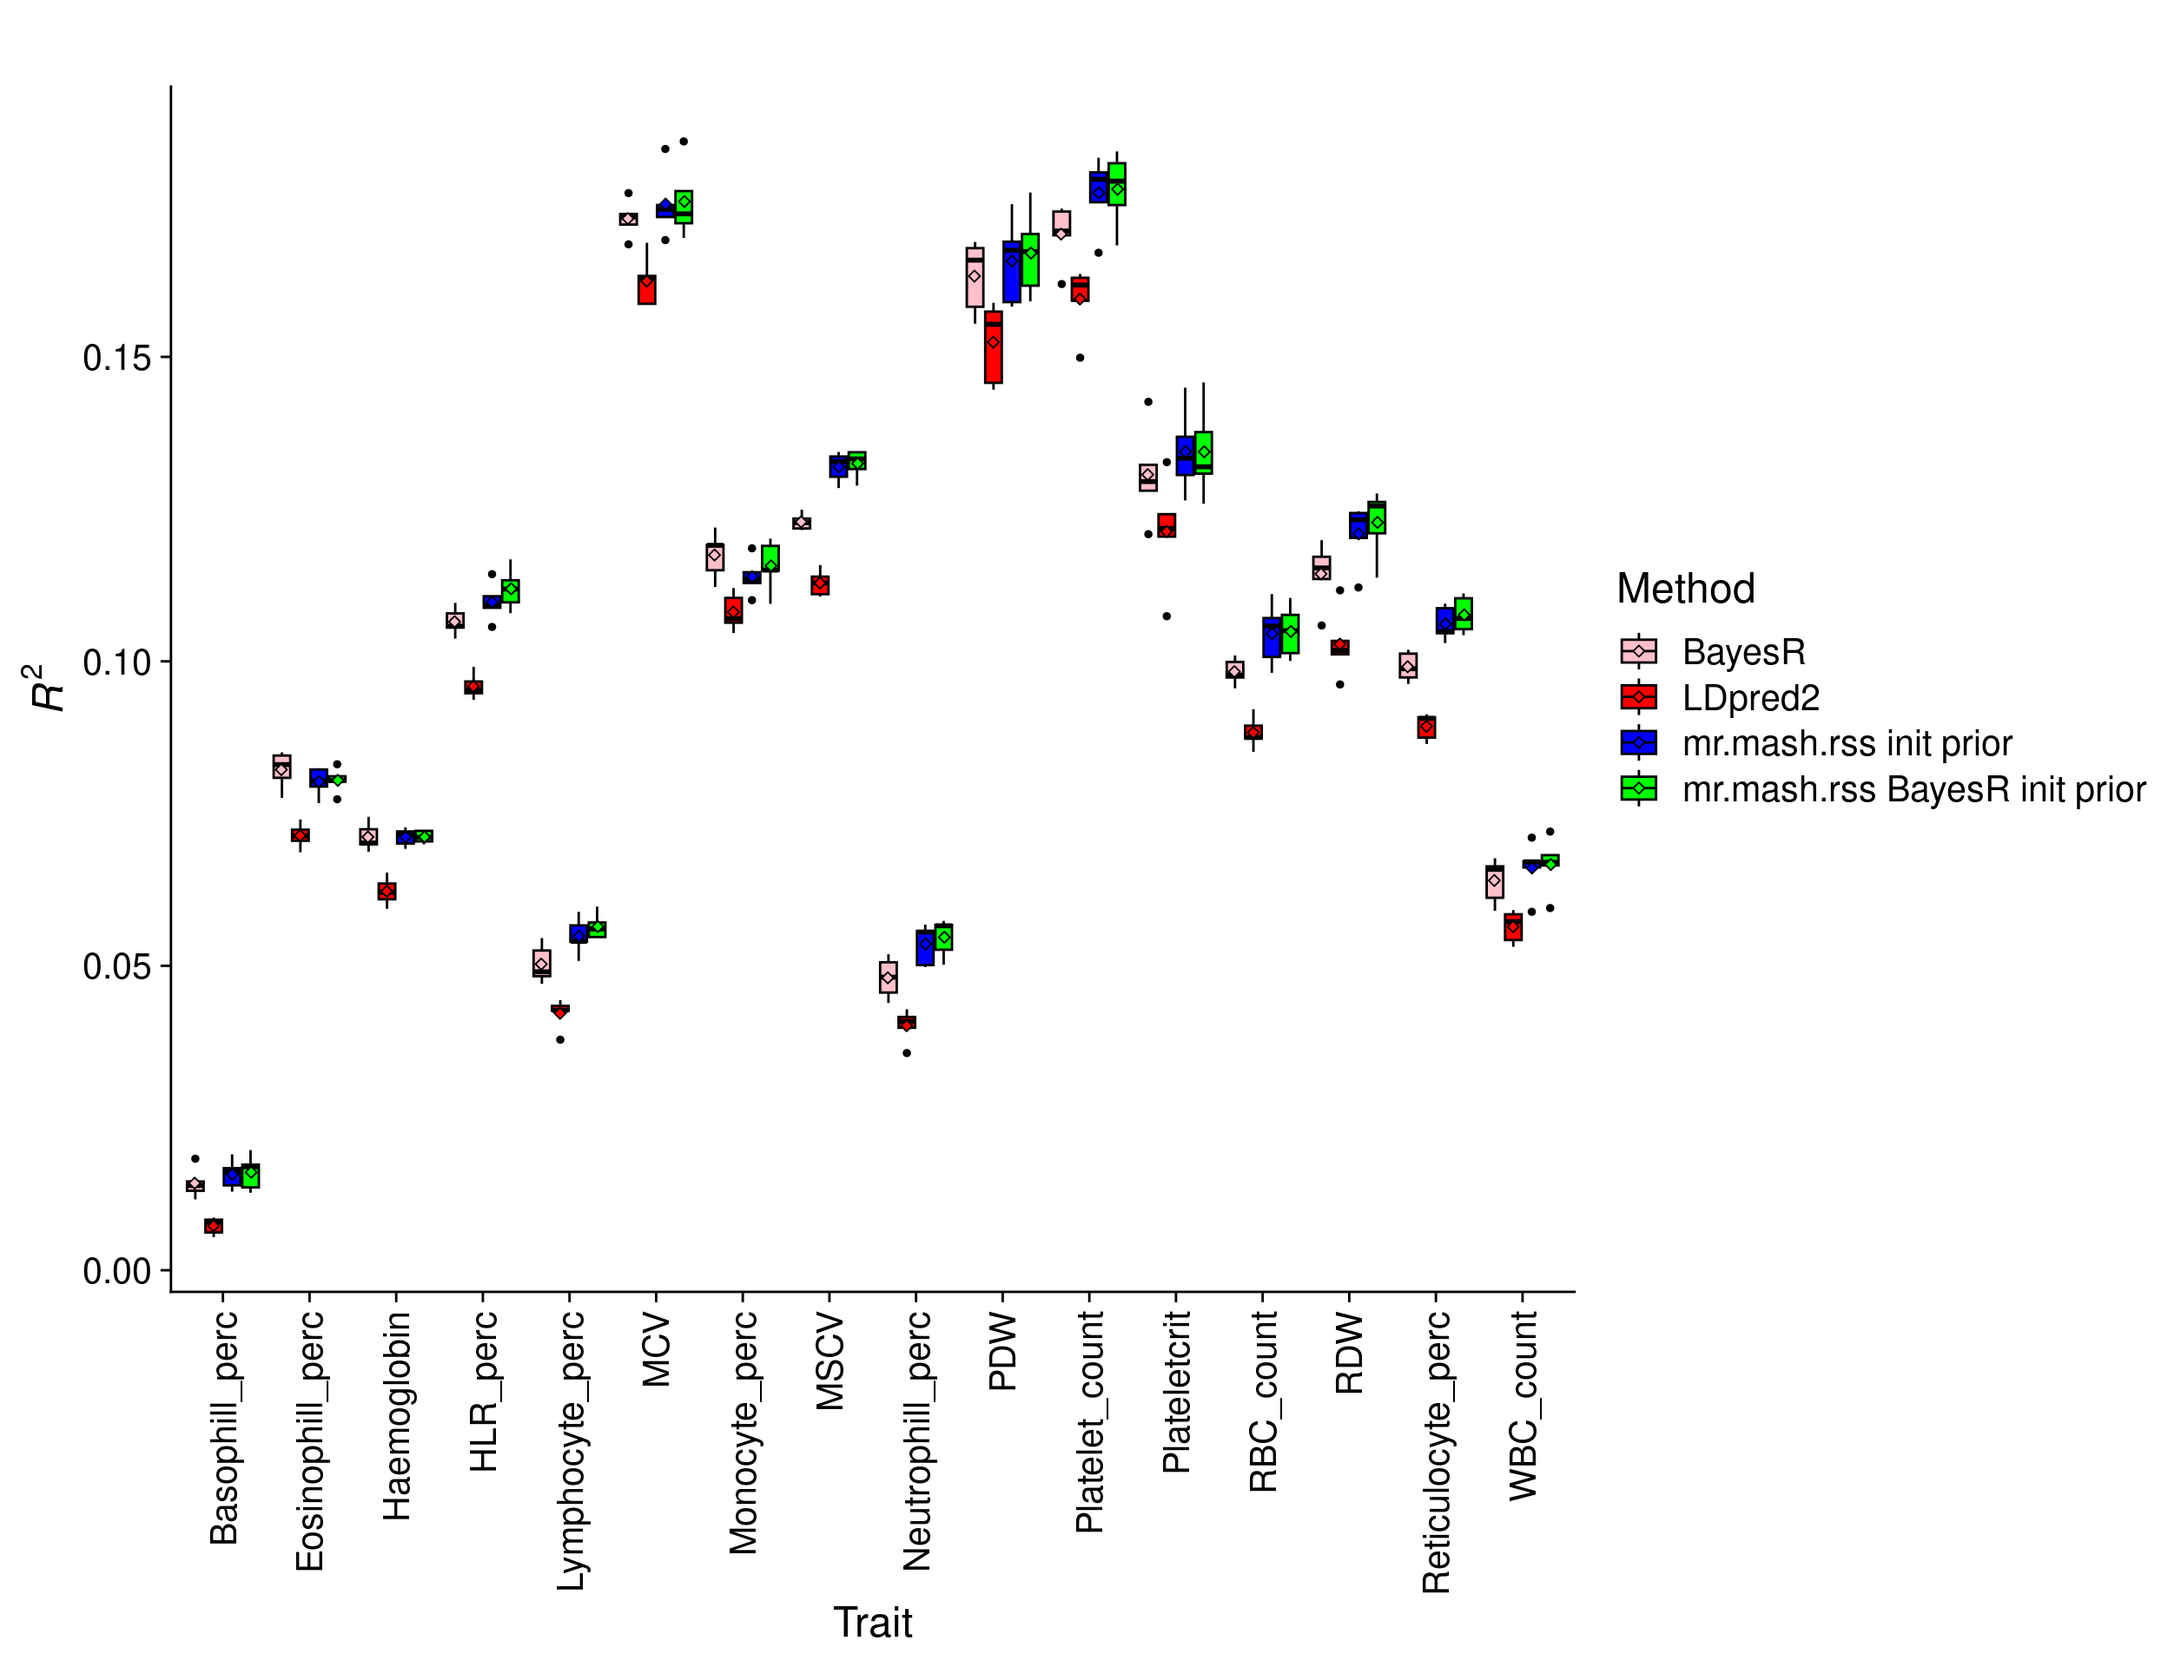
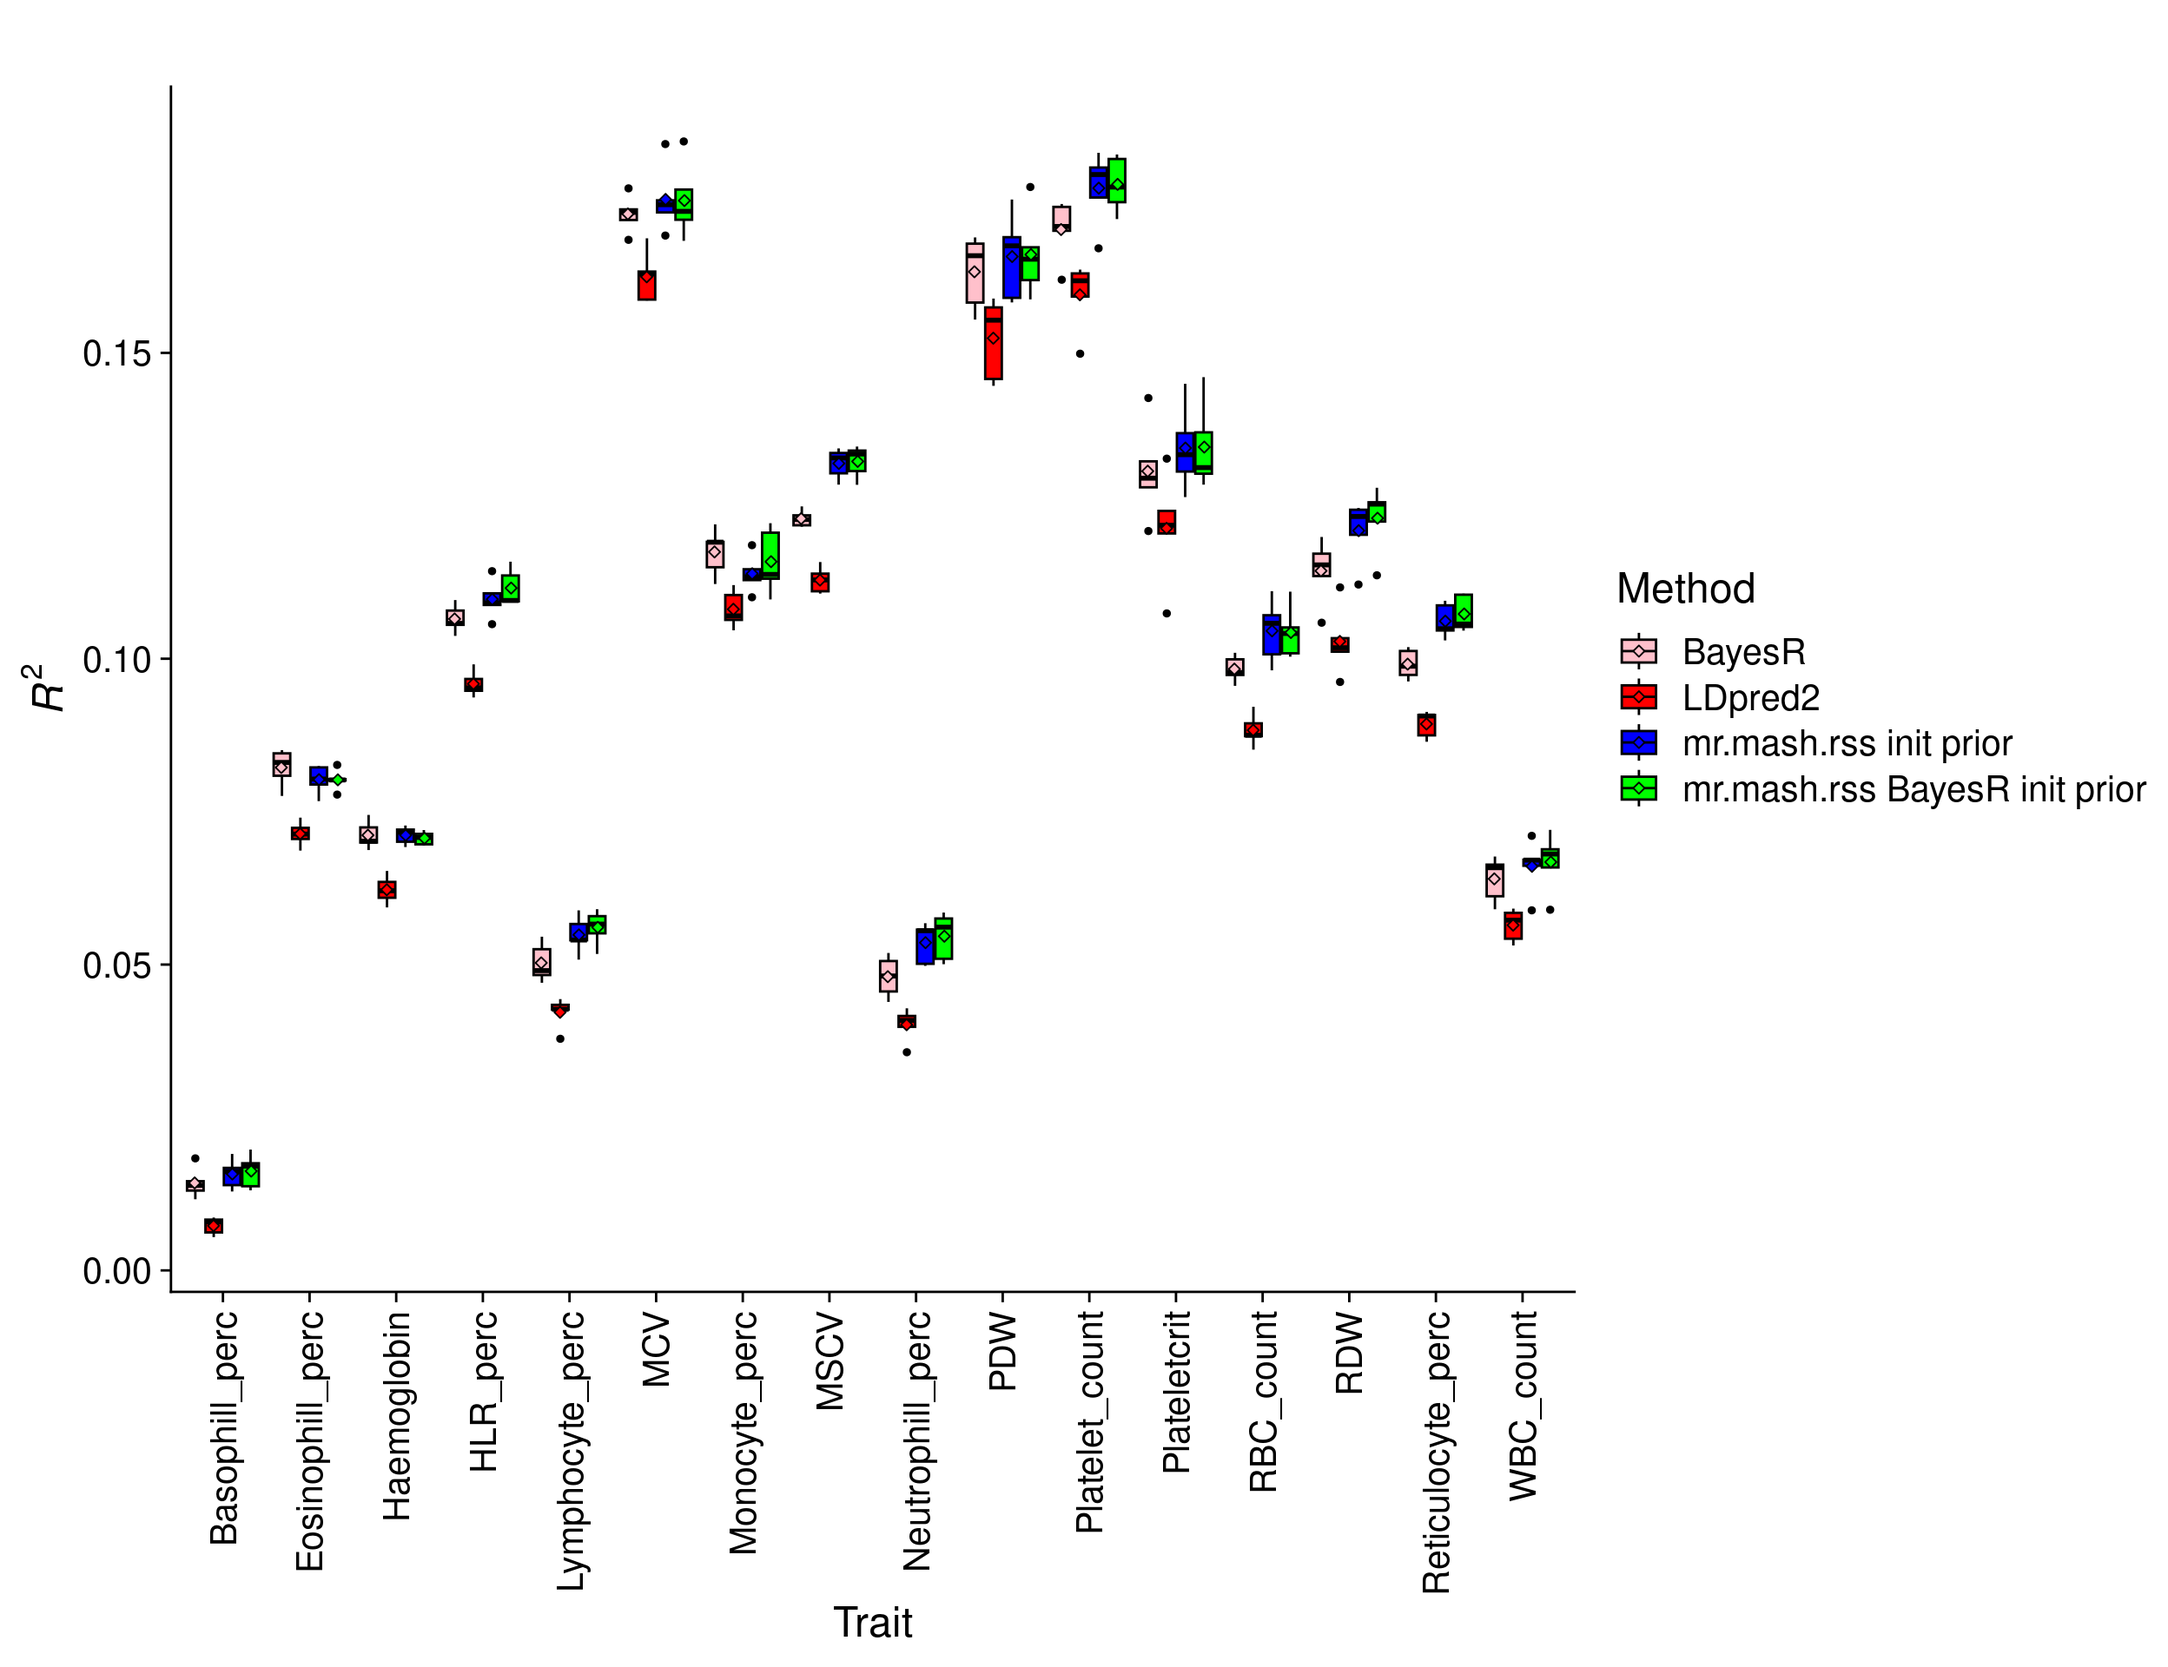
Build site.

diff --git a/docs/ukb_bc_results.html b/docs/ukb_bc_results.html
@@ -11,7 +11,7 @@
 
 <meta name="author" content="Fabio Morgante &amp; Deborah Kunkel" />
 
-<meta name="date" content="2024-03-01" />
+<meta name="date" content="2024-05-02" />
 
 <title>Analysis of blood cell traits in UK Biobank</title>
 
@@ -374,7 +374,7 @@ div.tocify {
 <h1 class="title toc-ignore">Analysis of blood cell traits in UK
 Biobank</h1>
 <h4 class="author">Fabio Morgante &amp; Deborah Kunkel</h4>
-<h4 class="date">March 01, 2024</h4>
+<h4 class="date">May 02, 2024</h4>
 
 </div>
 
@@ -403,7 +403,7 @@ class="glyphicon glyphicon-ok text-success" aria-hidden="true"></span>
 <div class="tab-content">
 <div id="summary" class="tab-pane fade in active">
 <p>
-<strong>Last updated:</strong> 2024-03-01
+<strong>Last updated:</strong> 2024-05-02
 </p>
 <p>
 <strong>Checks:</strong> <span
@@ -534,15 +534,15 @@ project makes it easier to run your code on other machines.</p>
 <div class="panel panel-default">
 <div class="panel-heading">
 <p class="panel-title">
-<a data-toggle="collapse" data-parent="#workflowr-checks" href="#strongRepositoryversionstrongahrefhttpsgithubcommorgantelabmrmashrssanalysistreec1eefe19a7282592811cf7ee467da216a03ddf18targetblankc1eefe1a">
+<a data-toggle="collapse" data-parent="#workflowr-checks" href="#strongRepositoryversionstrongahrefhttpsgithubcommorgantelabmrmashrssanalysistree8fb348c64dbad19ebc7111456d3eaf5414c32b4atargetblank8fb348ca">
 <span class="glyphicon glyphicon-ok text-success"
 aria-hidden="true"></span> <strong>Repository version:</strong>
-<a href="https://github.com/morgantelab/mr_mash_rss_analysis/tree/c1eefe19a7282592811cf7ee467da216a03ddf18" target="_blank">c1eefe1</a>
+<a href="https://github.com/morgantelab/mr_mash_rss_analysis/tree/8fb348c64dbad19ebc7111456d3eaf5414c32b4a" target="_blank">8fb348c</a>
 </a>
 </p>
 </div>
 <div
[2 lines of base64/hex data omitted]
 class="panel-collapse collapse">
 <div class="panel-body">
 <p>
@@ -552,7 +552,7 @@ reproducibility.
 </p>
 <p>
 The results in this page were generated with repository version
-<a href="https://github.com/morgantelab/mr_mash_rss_analysis/tree/c1eefe19a7282592811cf7ee467da216a03ddf18" target="_blank">c1eefe1</a>.
+<a href="https://github.com/morgantelab/mr_mash_rss_analysis/tree/8fb348c64dbad19ebc7111456d3eaf5414c32b4a" target="_blank">8fb348c</a>.
 See the <em>Past versions</em> tab to see a history of the changes made
 to the R Markdown and HTML files.
 </p>
@@ -646,6 +646,40 @@ Message
 </tr>
 </thead>
 <tbody>
+<tr>
+<td>
+Rmd
+</td>
+<td>
+<a href="https://github.com/morgantelab/mr_mash_rss_analysis/blob/8fb348c64dbad19ebc7111456d3eaf5414c32b4a/analysis/ukb_bc_results.Rmd" target="_blank">8fb348c</a>
+</td>
+<td>
+fmorgante
+</td>
+<td>
+2024-05-02
+</td>
+<td>
+Update results
+</td>
+</tr>
+<tr>
+<td>
+html
+</td>
+<td>
+<a href="https://rawcdn.githack.com/morgantelab/mr_mash_rss_analysis/e52ed0d767007e11e25b6cec5a16bcbe46f9bc38/docs/ukb_bc_results.html" target="_blank">e52ed0d</a>
+</td>
+<td>
+fmorgante
+</td>
+<td>
+2024-03-01
+</td>
+<td>
+Build site.
+</td>
+</tr>
 <tr>
 <td>
 Rmd
@@ -1298,7 +1332,7 @@ trait &lt;- rep(colnames(pheno), each=5)
 res &lt;- data.frame(method, trait, r2)
 
 #res &lt;- res[which(res$method %in% c(&quot;bayesR&quot;, &quot;ldpred2_auto&quot;, &quot;mr_mash_rss&quot;, &quot;mr_mash_rss_init&quot;, &quot;mr_mash_rss_init_fm_prior&quot;)), ]
-res &lt;- res[which(res$method %in% c(&quot;bayesR&quot;, &quot;ldpred2_auto&quot;, &quot;mr_mash_rss_init_fm_prior&quot;,
+res &lt;- res[which(res$method %in% c(&quot;bayesR&quot;, &quot;ldpred2_auto&quot;,
                                    &quot;mr_mash_rss_bayesR_init_fm_prior&quot;)), ]
 
 res &lt;- transform(res,
@@ -1343,6 +1377,17 @@ Date
 </tr>
 </thead>
 <tbody>
+<tr>
+<td>
+<a href="https://github.com/morgantelab/mr_mash_rss_analysis/blob/e52ed0d767007e11e25b6cec5a16bcbe46f9bc38/docs/figure/ukb_bc_results.Rmd/results_244K_accuracy-1.png" target="_blank">e52ed0d</a>
+</td>
+<td>
+fmorgante
+</td>
+<td>
+2024-03-01
+</td>
+</tr>
 <tr>
 <td>
 <a href="https://github.com/morgantelab/mr_mash_rss_analysis/blob/106e7db84f7e86efca11837af1a89abe928a4af8/docs/figure/ukb_bc_results.Rmd/results_244K_accuracy-1.png" target="_blank">106e7db</a>
@@ -1396,16 +1441,16 @@ fmorgante
 univariate method) by trait is:</p>
 <pre class="r"><code>perc_change_bayesR_bayesR_init_fm_prior</code></pre>
 <pre><code>        WBC_count         RBC_count       Haemoglobin               MCV 
-        1.5072070         1.0694657        -1.3968931         1.4210554 
+        1.7977006         1.1088815        -1.5696606         1.3284585 
               RDW    Platelet_count      Plateletcrit               PDW 
-        3.4591485         0.7847467         0.5295371         0.5668778 
+        3.2556664         0.9016611         0.5622886         0.6597957 
   Lymphocyte_perc     Monocyte_perc  Neutrophill_perc  Eosinophill_perc 
-        4.8577118         1.1778038         6.8932845        -1.8026035 
+        5.0782895         1.2616122         7.0775684        -1.9221231 
    Basophill_perc Reticulocyte_perc              MSCV          HLR_perc 
-       13.7768669         3.6354570         4.4192330         1.5843436 </code></pre>
+       13.9310782         3.5229454         4.4194719         1.3517429 </code></pre>
 <p>The overall percentage change in <span
 class="math inline">\(R^2\)</span> of <em>mr.mash.rss BayesR init
-prior</em> over <em>BayesR</em> across traits is 2.6552026.</p>
+prior</em> over <em>BayesR</em> across traits is 2.6728361.</p>
 <!-- The results show that *mr.mash.rss init* improves accuracy over *LDpred2* for all but one trait. However, -->
 <!-- in that trait the performance is very similar. In general, the improvement in performance is in line with -->
 <!-- other papers such as the [PRS-CS paper](https://www.nature.com/articles/s41467-019-09718-5). -->
@@ -1496,6 +1541,17 @@ Date
 <tbody>
 <tr>
 <td>
+<a href="https://github.com/morgantelab/mr_mash_rss_analysis/blob/e52ed0d767007e11e25b6cec5a16bcbe46f9bc38/docs/figure/ukb_bc_results.Rmd/results_75K_accuracy-1.png" target="_blank">e52ed0d</a>
+</td>
+<td>
+fmorgante
+</td>
+<td>
+2024-03-01
+</td>
+</tr>
+<tr>
+<td>
 <a href="https://github.com/morgantelab/mr_mash_rss_analysis/blob/98405f207cf141c10a92543804cfb8a5d693257a/docs/figure/ukb_bc_results.Rmd/results_75K_accuracy-1.png" target="_blank">98405f2</a>
 </td>
 <td>
@@ -1525,16 +1581,16 @@ fmorgante
 is:</p>
 <pre class="r"><code>perc_change_bayesR_bayesR_init_fm_prior</code></pre>
 <pre><code>        WBC_count         RBC_count       Haemoglobin               MCV 
-       4.09549552        6.70482021        0.03903016        1.62683124 
+        4.2959529         6.0833277        -0.6933223         1.2691704 
               RDW    Platelet_count      Plateletcrit               PDW 
-       7.38114700        4.33009849        2.87714235        2.32481460 
+        7.5278964         4.3434794         3.0134892         1.7218913 
   Lymphocyte_perc     Monocyte_perc  Neutrophill_perc  Eosinophill_perc 
-      12.26636339       -1.50704443       13.89908641       -2.14539888 
+       11.5422148        -1.3582411        13.7654497        -2.4492646 
    Basophill_perc Reticulocyte_perc              MSCV          HLR_perc 
-      12.49213922        8.58371524        7.80471850        5.07470495 </code></pre>
+       13.5404411         8.2705154         7.6120624         4.7392530 </code></pre>
 <p>The overall percentage change in <span
 class="math inline">\(R^2\)</span> of <em>mr.mash.rss BayesR init
-prior</em> over <em>BayesR</em> across traits is 5.365479.</p>
+prior</em> over <em>BayesR</em> across traits is 5.2015197.</p>
 <p>The results show that <em>mr.mash.rss BayesR init</em> improves
 accuracy over <em>BayesR</em> more substantially with a smaller sample
 size, highlighting the scenario where a multivariate analysis is really
@@ -1570,7 +1626,7 @@ other attached packages:
 [1] cowplot_1.1.1 ggplot2_3.4.3
 
 loaded via a namespace (and not attached):
- [1] Rcpp_1.0.11       highr_0.10        pillar_1.9.0      compiler_4.1.2   
+ [1] Rcpp_1.0.12       highr_0.10        pillar_1.9.0      compiler_4.1.2   
  [5] bslib_0.5.0       later_1.3.1       jquerylib_0.1.4   git2r_0.32.0     
  [9] workflowr_1.7.0   tools_4.1.2       digest_0.6.33     gtable_0.3.3     
 [13] jsonlite_1.8.7    evaluate_0.21     lifecycle_1.0.3   tibble_3.2.1     
